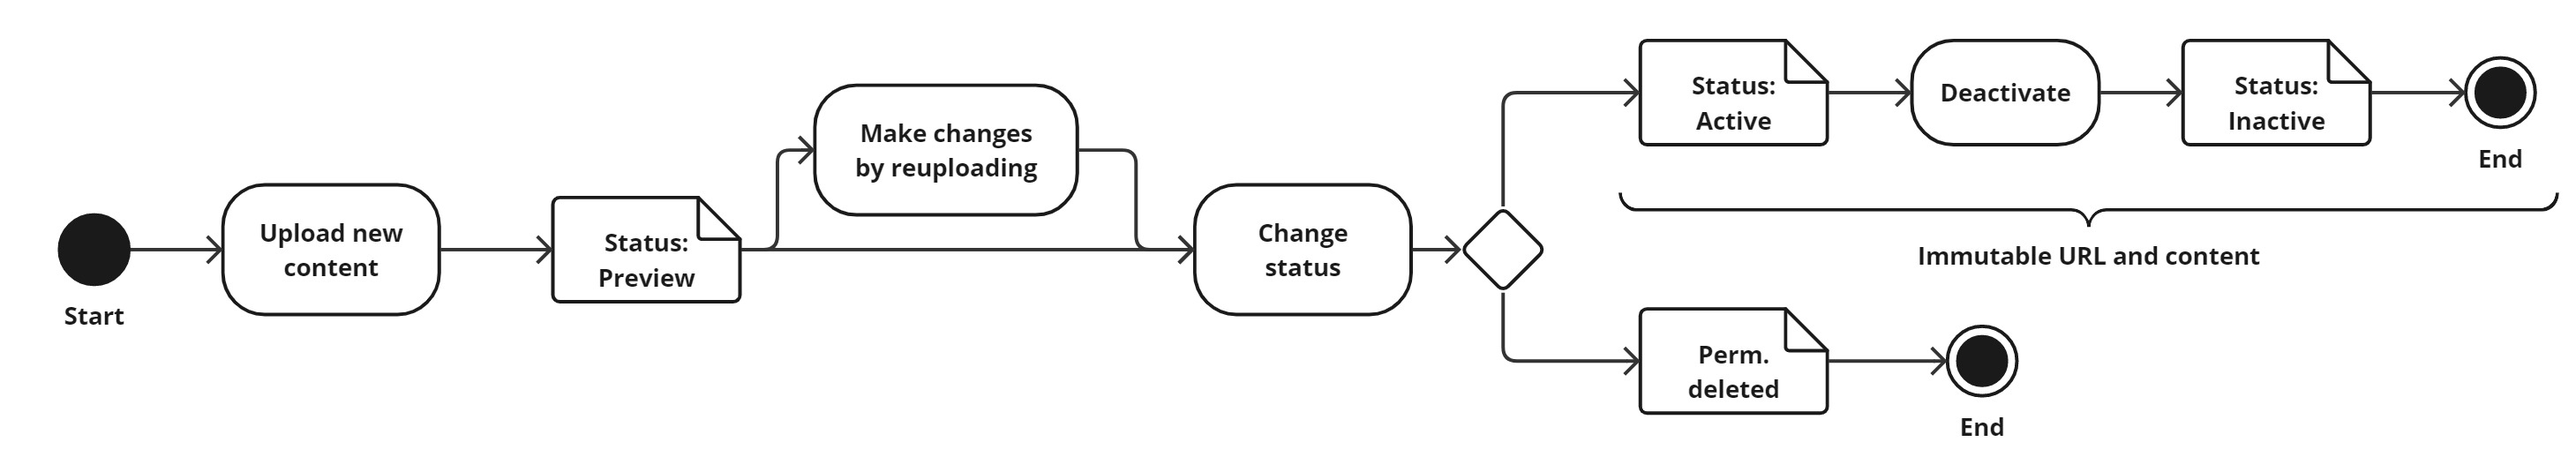
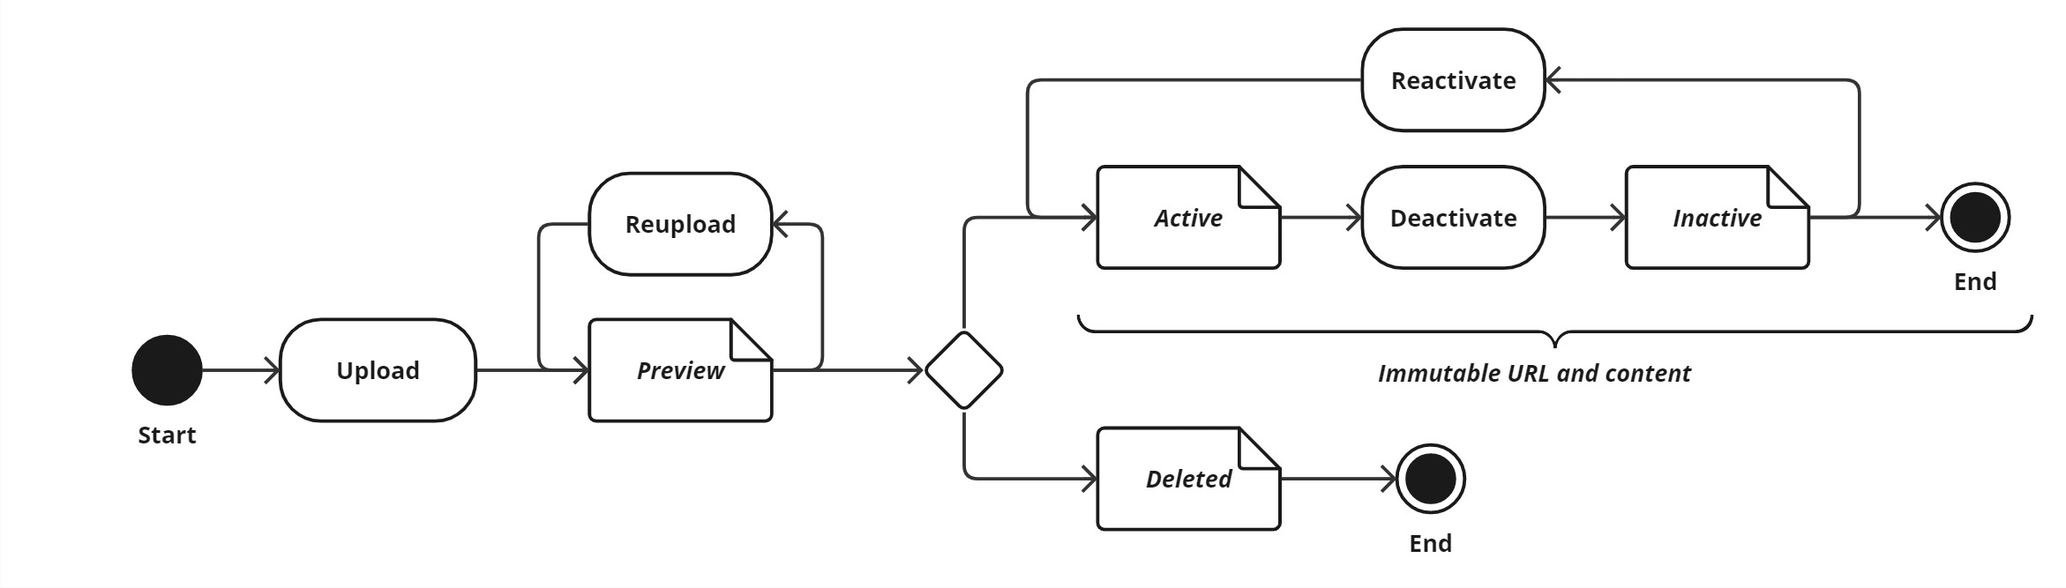
workflow update

diff --git a/Documentation/bSDD import tutorial.md b/Documentation/bSDD import tutorial.md
@@ -1,8 +1,10 @@
-# The lifecycle of the bSDD content
+# The lifecycle of the bSDD dictionary version
 
 <img src="/Documentation/graphics/Content_lifecycle_workflow.jpg" alt="Signup/signin" style="width: 900px">
-When you publish new content, it is in `Preview` status. At this stage, you can activate or permanently delete it.
-⚠ Once content is activated, it will get an immutable URI, meaning the URL and content will stay in bSDD forever, and can't be deleted. It is only possible to change the status to "Inactive", but the page will still show the content, to support use in contractual agreements.  
+
+When you publish a new version of a dictionary in bSDD, it has the `Preview` status. At this stage, you can *reupload* the content to modify it, *activate* the version, or permanently *delete* it. The status can be changed through the [Management Portal](https://manage.bsdd.buildingsmart.org/) or via [the API](https://app.swaggerhub.com/apis/buildingSMART/Dictionaries/v1).
+
+⚠ Once the content is activated, it will get an immutable URI, meaning the URL and content will stay in bSDD forever, and can't be deleted. Changing the status to "Inactive" is possible, but the page will still show the content to support use in contractual agreements. Consider that before activating the version of a dictionary.
 
 
 # How to import your bSDD model into bSDD?
